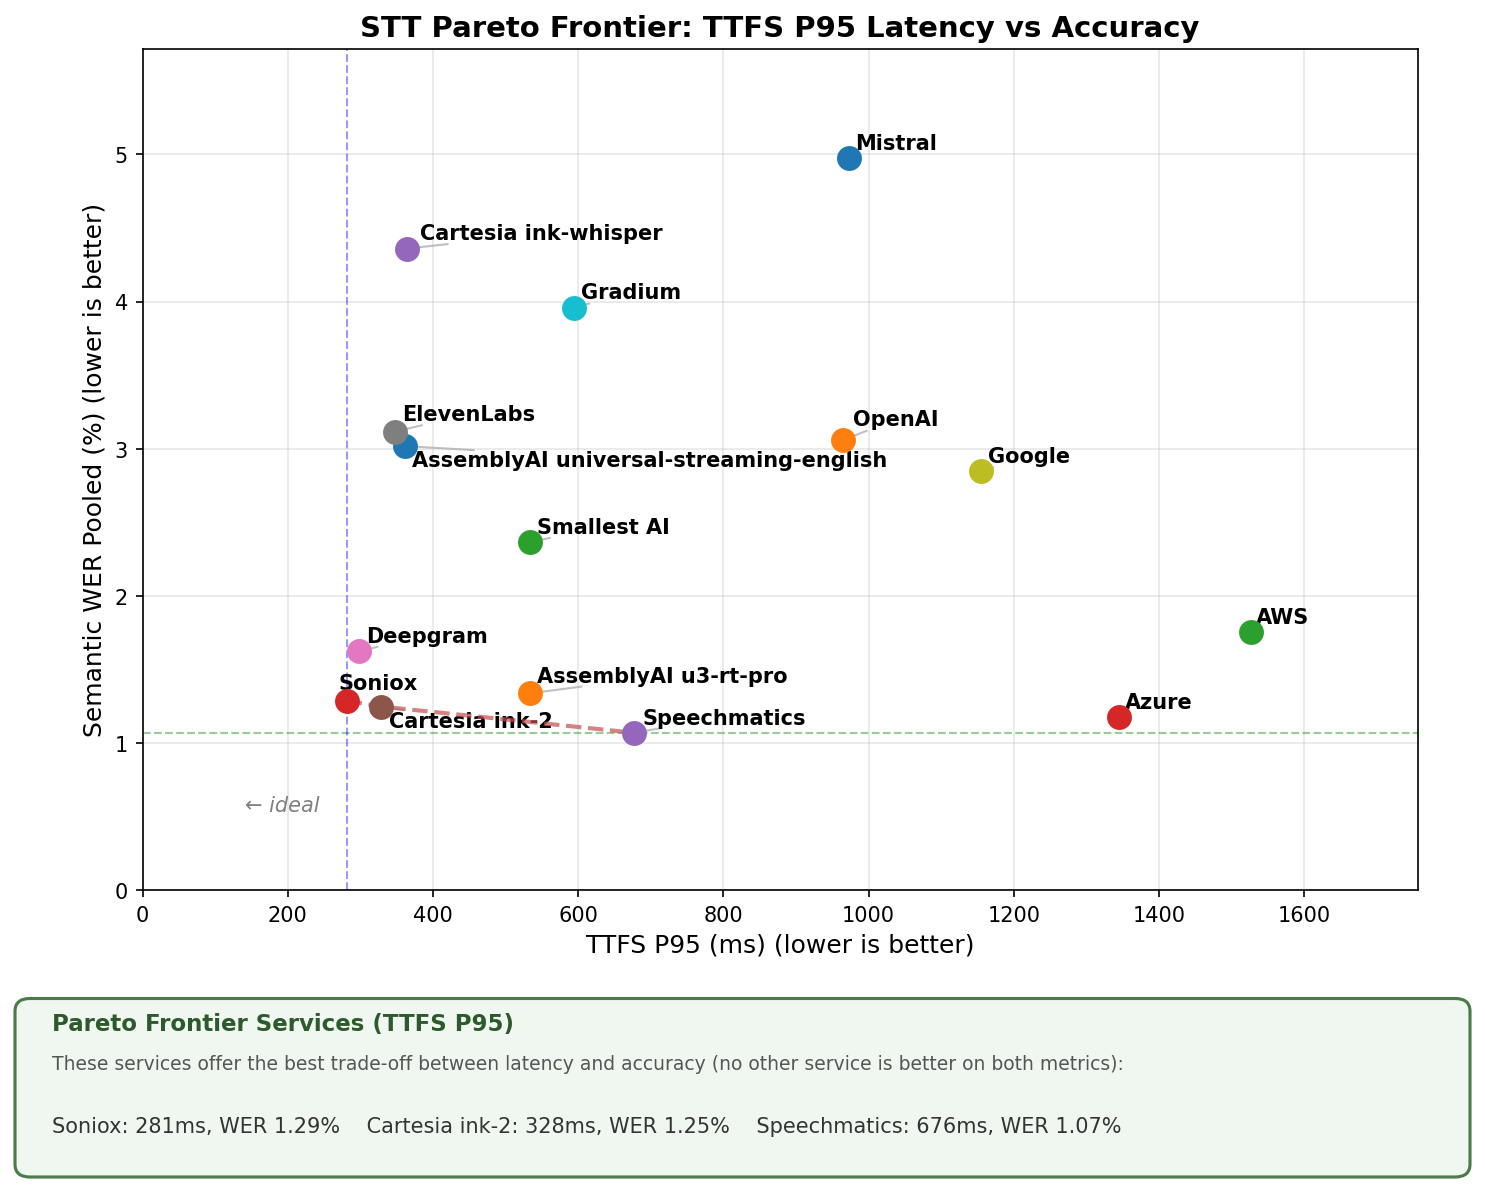
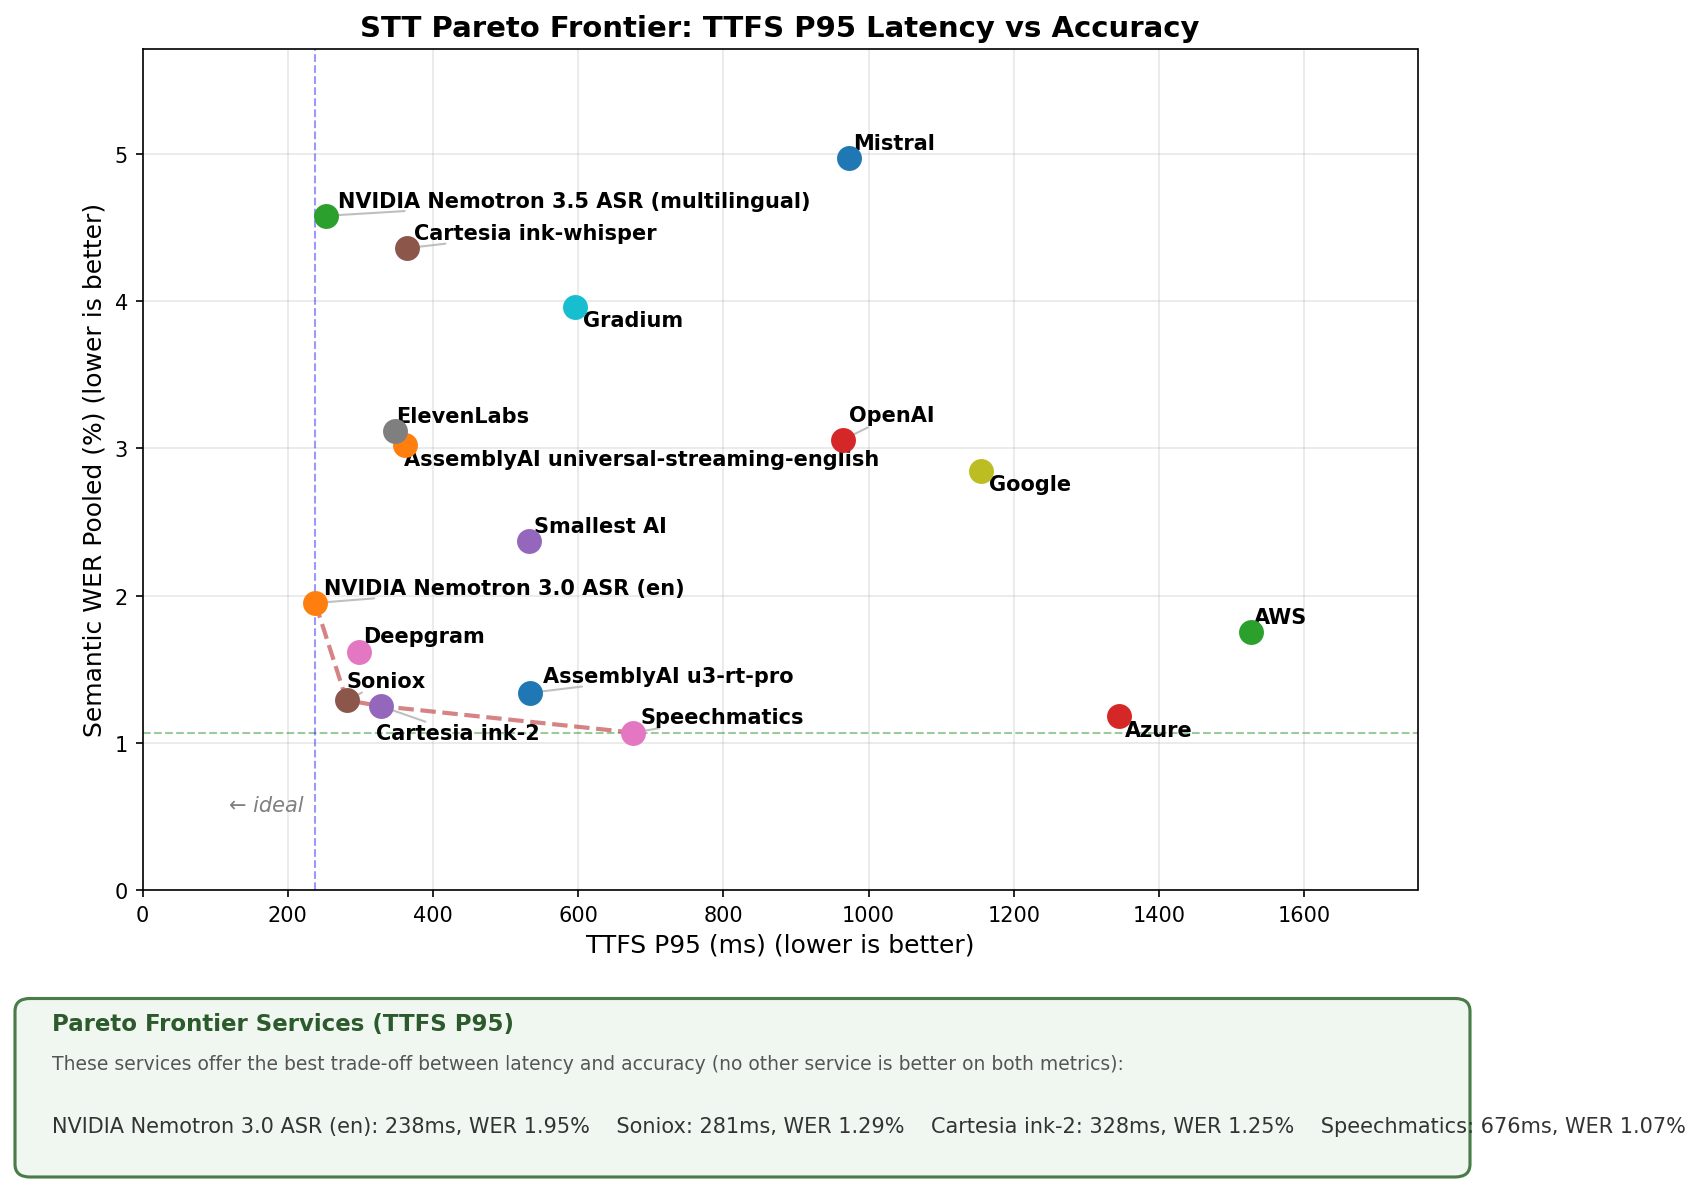
Nemotron 3.0 and 3.5 ASR

diff --git a/scripts/pareto-frontier-plot.py b/scripts/pareto-frontier-plot.py
@@ -59,6 +59,7 @@ def plot_pareto_frontier(
     latency_metric: str = "median",
     output_path: str = "stt_pareto_frontier.png",
     show: bool = False,
+    capitalize_labels: bool = True,
 ):
     """Generate the TTFS vs WER scatter plot with Pareto frontier annotation."""
     try:
@@ -218,7 +219,8 @@ def plot_pareto_frontier(
         # List Pareto optimal services with stats
         service_strs = []
         for name, ttfb, wer in pareto_optimal:
-            service_strs.append(f"{name.capitalize()}: {ttfb:.0f}ms, WER {wer:.2f}%")
+            label = name.capitalize() if capitalize_labels else name
+            service_strs.append(f"{label}: {ttfb:.0f}ms, WER {wer:.2f}%")
 
         # Display services in a wrapped format
         services_text = "    ".join(service_strs)
@@ -364,6 +366,87 @@ def update_readme_table(table_md: str, readme_path: Path) -> bool:
     return True
 
 
+def get_data_from_readme(readme_path: Path) -> dict:
+    """Parse the "Results Summary" table from README.md as the data source.
+
+    Used when the canonical multi-vendor metrics live only in the committed
+    README table (we don't have raw benchmark runs for every vendor locally).
+    The table between the RESULTS_TABLE markers is treated as the single source
+    of truth, so the regenerated Pareto charts always match the published
+    numbers. Returns the same dict shape as ``get_data_from_db`` (keyed by a
+    display label, values in ms / %).
+
+    Point labels are the vendor name when a vendor has a single row, or
+    ``"{vendor} {model}"`` when a vendor ships multiple models (so they don't
+    collide on the chart).
+    """
+    from collections import Counter
+
+    if not readme_path.exists():
+        print(f"README not found: {readme_path}")
+        sys.exit(1)
+
+    content = readme_path.read_text()
+    if README_TABLE_START in content and README_TABLE_END in content:
+        _, _, rest = content.partition(README_TABLE_START)
+        table_block, _, _ = rest.partition(README_TABLE_END)
+    else:
+        # Fall back to scanning the whole file for pipe-delimited rows.
+        table_block = content
+
+    def _num(cell: str) -> float:
+        return float(cell.replace("%", "").replace("ms", "").strip())
+
+    rows = []
+    for line in table_block.splitlines():
+        line = line.strip()
+        if not line.startswith("|"):
+            continue
+        cells = [c.strip() for c in line.strip("|").split("|")]
+        if len(cells) < 9:
+            continue
+        vendor, model = cells[0], cells[1]
+        # Skip the header row and the |---|---| separator row.
+        if vendor.lower() == "vendor" or set(vendor) <= set("-: "):
+            continue
+        try:
+            rows.append(
+                {
+                    "vendor": vendor,
+                    "model": model,
+                    "success_rate": _num(cells[2]),
+                    "perfect_pct": _num(cells[3]),
+                    "wer_mean": _num(cells[4]),
+                    "pooled_wer": _num(cells[5]),
+                    "ttfb_median": _num(cells[6]),
+                    "ttfb_p95": _num(cells[7]),
+                    "ttfb_p99": _num(cells[8]),
+                }
+            )
+        except ValueError:
+            # A row whose metric cells aren't numeric isn't a data row; skip it.
+            continue
+
+    vendor_counts = Counter(r["vendor"] for r in rows)
+    metric_keys = (
+        "ttfb_median",
+        "ttfb_p95",
+        "ttfb_p99",
+        "pooled_wer",
+        "success_rate",
+        "perfect_pct",
+        "wer_mean",
+    )
+    data = {}
+    for r in rows:
+        if vendor_counts[r["vendor"]] > 1 and r["model"] and r["model"].upper() != "N/A":
+            label = f"{r['vendor']} {r['model']}"
+        else:
+            label = r["vendor"]
+        data[label] = {k: r[k] for k in metric_keys}
+    return data
+
+
 def main():
     parser = argparse.ArgumentParser(
         description="Generate Pareto frontier plot of TTFS vs Semantic WER for STT services"
@@ -396,6 +479,16 @@ def main():
         help="Path to a JSON config file with plot settings",
     )
     parser.add_argument(
+        "--from-readme",
+        nargs="?",
+        const="README.md",
+        default=None,
+        metavar="README_PATH",
+        help="Use the README results table as the data source instead of the database "
+        "(default path: README.md, resolved relative to the repo root). Skips DB access "
+        "and README table regeneration — the README is treated as the source of truth.",
+    )
+    parser.add_argument(
         "--show",
         action="store_true",
         default=None,
@@ -416,47 +509,71 @@ def main():
     display_names = file_config.get("display_names", {})
     show = args.show if args.show is not None else file_config.get("show", False)
 
-    print("Fetching data from database...")
-    data = get_data_from_db()
+    # README-derived labels are already display-ready; DB keys are lowercase
+    # service names that the bottom panel capitalizes.
+    capitalize_labels = args.from_readme is None
 
-    if not data:
-        print("No data found. Run benchmarks and WER calculation first.")
-        sys.exit(1)
+    if args.from_readme is not None:
+        # README is the source of truth: read the published table as-is and do
+        # NOT regenerate it or remap labels from the registry.
+        readme_path = Path(args.from_readme)
+        if not readme_path.is_absolute() and not readme_path.exists():
+            readme_path = Path(__file__).parent.parent / args.from_readme
+        print(f"Reading metrics from README table: {readme_path}")
+        data = get_data_from_readme(readme_path)
 
-    # Filter to requested services
-    if services:
-        data = filter_services(data, services)
         if not data:
-            print("No matching services found. Nothing to plot.")
+            print("No data rows parsed from the README table. Nothing to plot.")
             sys.exit(1)
 
-    # Generate the README results table from the same (plot-config) services,
-    # using registry labels + DB metrics. Do this before display-name remapping
-    # so we still have service keys to look up vendor/model_label.
-    table_md = generate_markdown_table(data)
-    readme_path = Path(__file__).parent.parent / "README.md"
-    if update_readme_table(table_md, readme_path):
-        print(f"\nUpdated results table in: {readme_path}\n")
+        # Filter to requested services (case-insensitive match on the label)
+        if services:
+            data = filter_services(data, services)
+            if not data:
+                print("No matching services found. Nothing to plot.")
+                sys.exit(1)
     else:
-        out = Path(output)
-        table_dir = out if (out.is_dir() or output.endswith("/")) else out.parent
-        table_dir.mkdir(parents=True, exist_ok=True)
-        table_file = table_dir / "results-table.md"
-        table_file.write_text(table_md + "\n")
-        print(
-            f"\nREADME markers not found; wrote table to: {table_file}\n"
-            f"(add {README_TABLE_START} / {README_TABLE_END} around the table in "
-            f"README.md to auto-update it)\n"
-        )
-    print(table_md)
-    print()
+        print("Fetching data from database...")
+        data = get_data_from_db()
 
-    # Derive labels from registry metadata (vendor / model_label). Any
-    # display_names in the config are optional per-service overrides.
-    from stt_benchmark.services import get_display_names
+        if not data:
+            print("No data found. Run benchmarks and WER calculation first.")
+            sys.exit(1)
 
-    labels = {**get_display_names(list(data.keys())), **display_names}
-    data = apply_display_names(data, labels)
+        # Filter to requested services
+        if services:
+            data = filter_services(data, services)
+            if not data:
+                print("No matching services found. Nothing to plot.")
+                sys.exit(1)
+
+        # Generate the README results table from the same (plot-config) services,
+        # using registry labels + DB metrics. Do this before display-name remapping
+        # so we still have service keys to look up vendor/model_label.
+        table_md = generate_markdown_table(data)
+        readme_path = Path(__file__).parent.parent / "README.md"
+        if update_readme_table(table_md, readme_path):
+            print(f"\nUpdated results table in: {readme_path}\n")
+        else:
+            out = Path(output)
+            table_dir = out if (out.is_dir() or output.endswith("/")) else out.parent
+            table_dir.mkdir(parents=True, exist_ok=True)
+            table_file = table_dir / "results-table.md"
+            table_file.write_text(table_md + "\n")
+            print(
+                f"\nREADME markers not found; wrote table to: {table_file}\n"
+                f"(add {README_TABLE_START} / {README_TABLE_END} around the table in "
+                f"README.md to auto-update it)\n"
+            )
+        print(table_md)
+        print()
+
+        # Derive labels from registry metadata (vendor / model_label). Any
+        # display_names in the config are optional per-service overrides.
+        from stt_benchmark.services import get_display_names
+
+        labels = {**get_display_names(list(data.keys())), **display_names}
+        data = apply_display_names(data, labels)
 
     print(f"Found {len(data)} services with complete metrics")
     for name, metrics in sorted(data.items()):
@@ -491,7 +608,7 @@ def main():
             suffix = LATENCY_METRICS[metric]["suffix"]
             plot_output = output_path / f"{default_basename}{suffix}.png"
             print(f"\nGenerating {LATENCY_METRICS[metric]['label']} plot...")
-            plot_pareto_frontier(data, metric, str(plot_output), show)
+            plot_pareto_frontier(data, metric, str(plot_output), show, capitalize_labels)
     else:
         for metric in metrics_to_plot:
             suffix = LATENCY_METRICS[metric]["suffix"]
@@ -500,7 +617,7 @@ def main():
             else:
                 plot_output = output_path
             print(f"\nGenerating {LATENCY_METRICS[metric]['label']} plot...")
-            plot_pareto_frontier(data, metric, str(plot_output), show)
+            plot_pareto_frontier(data, metric, str(plot_output), show, capitalize_labels)
 
 
 if __name__ == "__main__":

diff --git a/README.md b/README.md
@@ -20,6 +20,8 @@ Benchmark results on 1000 samples from the `pipecat-ai/smart-turn-data-v3.1-trai
 | Google | latest-long | 100.0% | 69.0% | 2.84% | 2.85% | 878ms | 1155ms | 1570ms |
 | Gradium | default | 99.7% | 65.3% | 3.72% | 3.96% | 570ms | 595ms | 614ms |
 | Mistral | voxtral-mini-transcribe-realtime-2602 | 99.3% | 68.8% | 4.44% | 4.97% | 525ms | 973ms | 1913ms |
+| NVIDIA | Nemotron 3.0 ASR (en) | 100.0% | 76.1% | 1.90% | 1.95% | 221ms | 238ms | 252ms |
+| NVIDIA | Nemotron 3.5 ASR (multilingual) | 99.6% | 62.0% | 4.54% | 4.58% | 236ms | 253ms | 266ms |
 | OpenAI | gpt-4o-transcribe | 99.3% | 75.9% | 3.24% | 3.06% | 637ms | 965ms | 1655ms |
 | Smallest AI | pulse | 100.0% | 72.4% | 2.30% | 2.37% | 398ms | 533ms | 1593ms |
 | Soniox | stt-rt-v4 | 99.8% | 84.1% | 1.25% | 1.29% | 249ms | 281ms | 310ms |